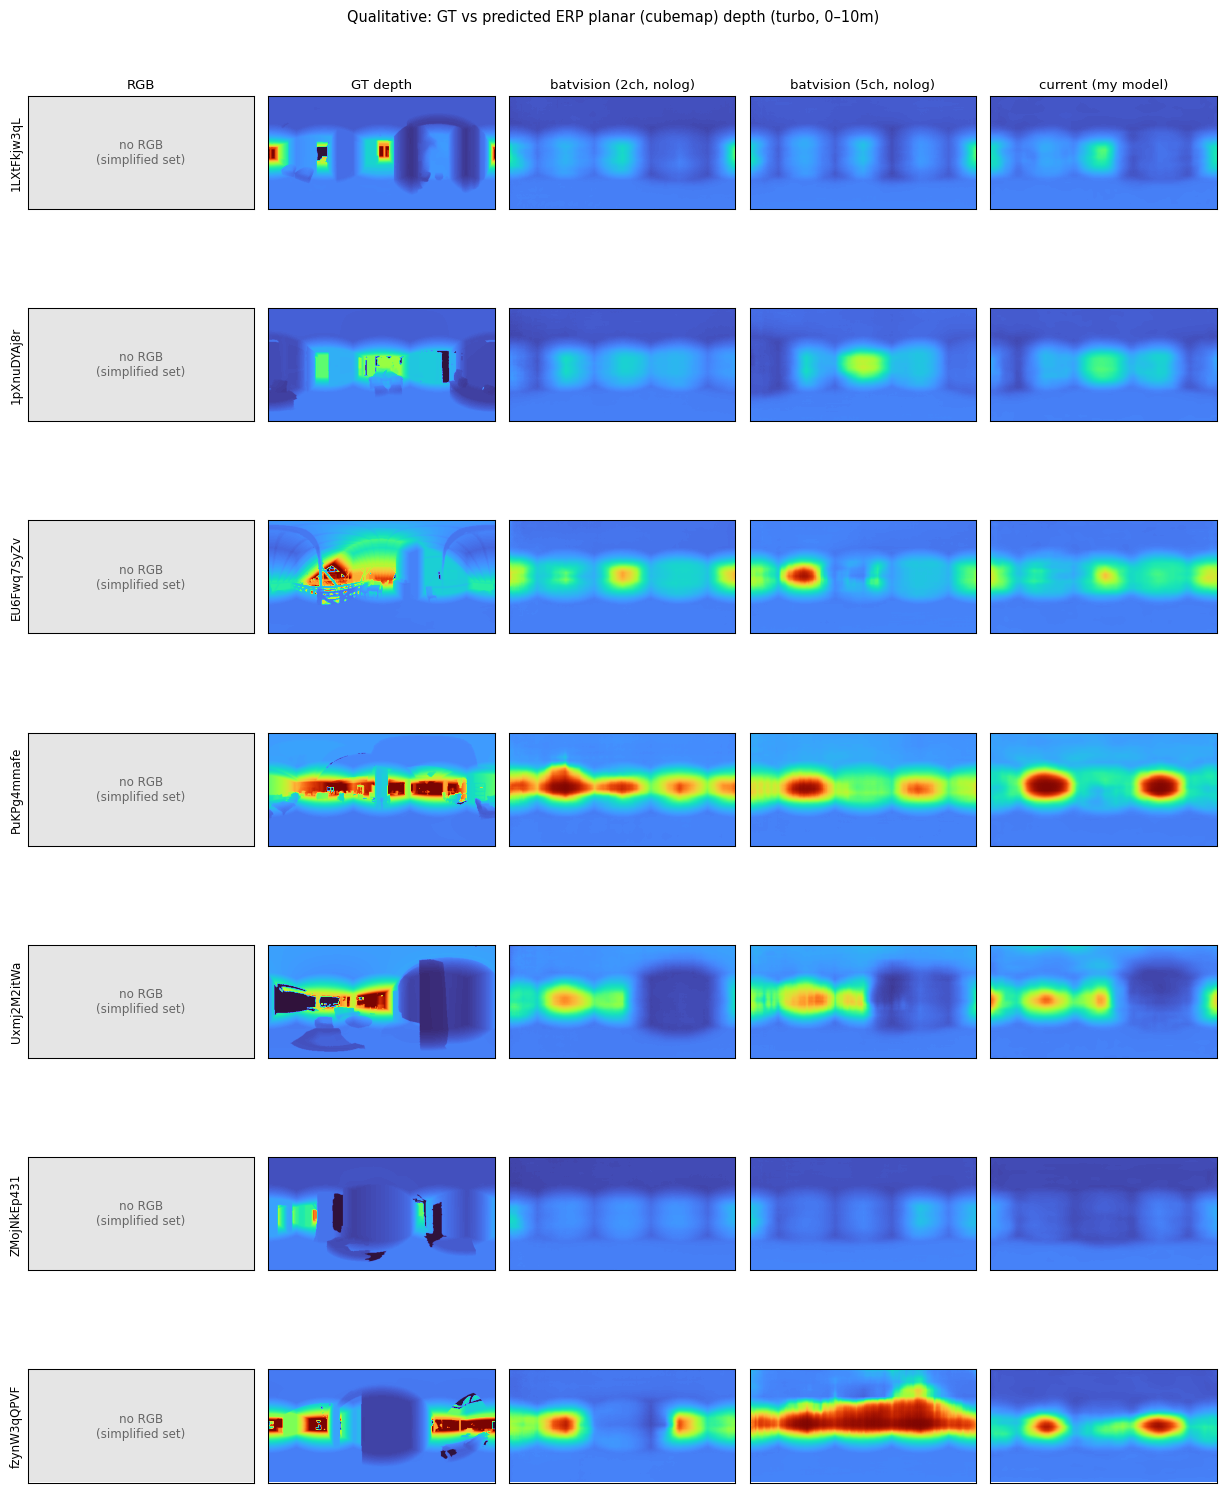
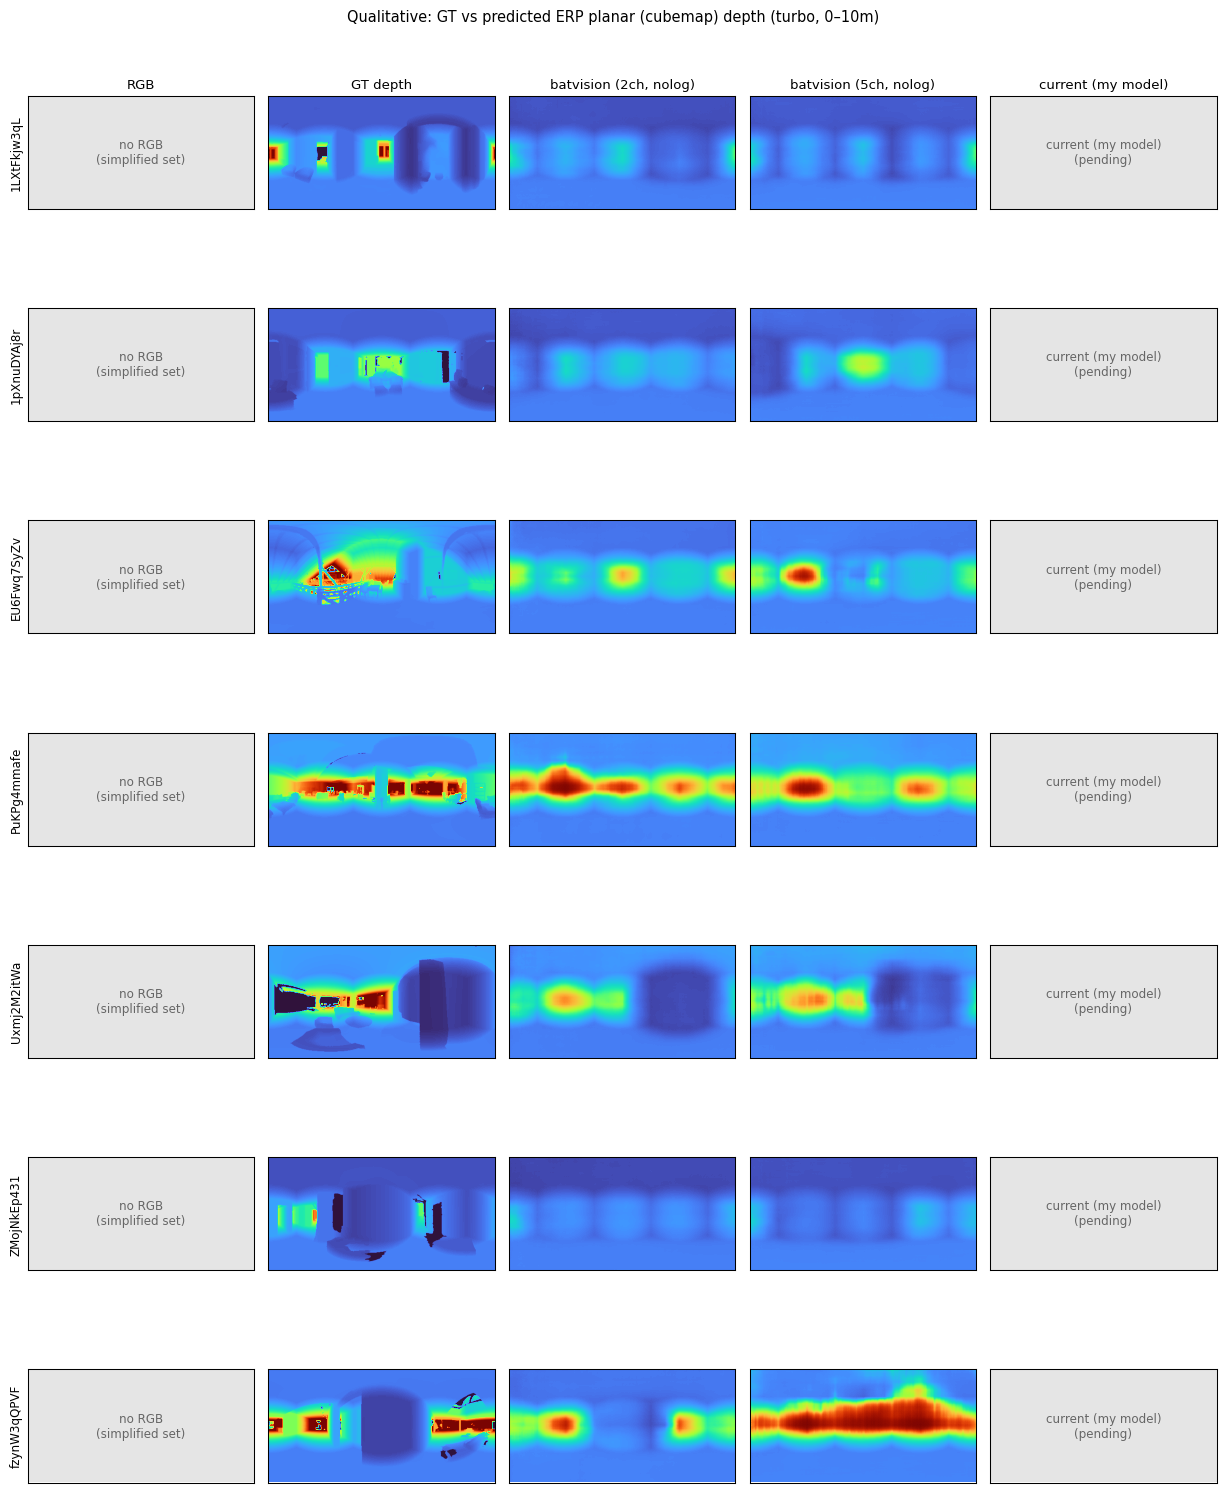
E32 log-out: composite worse, near-field verdict pending; note a loss-space subtlety
E32 raydpt_e32_logout: composite 1.9102 vs E23's 1.8962 (+0.0140), overall d1 -0.0044, converged
(best 15/22). Neither is the test -- the pre-registered locus is 1-2m interior d1, and that
diagnostic correctly blocked on the eval_lock behind E33 rather than steal the GPU.

Subtlety worth stating before the verdict: the model regresses log-depth (D = exp-map of the head),
but masked-MAE is still applied to the LINEAR out['D']. So the free variable is log d while the loss
is |D_lin - gt_lin|. Whether that moves the optimum from the arithmetic to the geometric median is
NOT guaranteed by construction -- it depends on how the exp curvature interacts with the linear MAE.
The near-field ratio histogram is the real test. If E32 fails it, the unambiguous form is masked-MAE
computed ON log-depth (|log D - log gt|), which IS the geometric-median objective by definition, and
that is the next thing to try rather than abandoning I25.

E33 (log-out + EchoDelayVolume) is training; the near-field + far-decile diagnostics run on both
the moment it finishes.

diff --git a/README.md b/README.md
@@ -51,6 +51,7 @@ Autonomous research — binaural echoes → ERP planar (cubemap) depth (SoundSpa
 
 | When | Mode | Event | Note |
 |---|---|---|---|
+| 2026-07-12T02:53 | `exploit` | experiment_completed | log-depth output: composite 1.9102 vs E23 1.8962 (+0.0140 worse), overall d1 -0.0044, converged. NOT the test -- the pre-registere |
 | 2026-07-12T01:42 | `exploit` | idea_added | log-depth output cures near-field median-pull. d1 is a +-25% ratio threshold; masked-MAE on linear depth converges to the arithmet |
 | 2026-07-12T01:31 | `synthesize` | discrepancy_recorded | Near-field diagnosis (1-2m, 52.5% of pixels): the gap is INTERIOR (flat walls), not boundary -- ties batvision on edges (0.4447 vs |
 | 2026-07-12T01:27 | `synthesize` | direction_changed | Representation lever OPENED per request and REFUTED at zero GPU: coherence correlates +0.17 (wrong sign) and late-tail waveform en |
@@ -58,7 +59,6 @@ Autonomous research — binaural echoes → ERP planar (cubemap) depth (SoundSpa
 | 2026-07-11T20:31 | `exploit` | experiment_completed | First attempt OOMed (raw logits 9GB at batch64; CPU smoke at batch2 hid it -- lesson: smoke at the real batch). Fixed with freq_st |
 | 2026-07-11T20:29 | `exploit` | idea_added | D13's decider. EchoDelayVolume reading the STFT spec DIRECTLY (512 time columns, 2cm spacing, encoder pooling bypassed). If the fa |
 | 2026-07-11T05:36 | `synthesize` | experiment_completed | EchoDelayVolume + kv=e3 FAILED the pre-registered far-decile test (all three regressed vs E24) and was budget-starved (16 vs 24 ep |
-| 2026-07-11T04:41 | `exploit` | experiment_completed | EchoDelayVolume on e2 (time 128, 2x delay resolution): composite 1.9006 vs E24's 1.8987, delta +0.0019 below sigma, converged. The |
 
 *Updated by `python utils/report.py research`. Champion: none yet.*
 <!-- RESEARCH:END -->
@@ -119,6 +119,7 @@ running best highlighted):
 | 25 | `00bdb13` | 0.4128 | 1.3228 | 0.5725 | 1.9006 | keep | E29 EchoDelayVolume on e2 (time 128, 2x delay resolution) fast parent (G1/I20) |
 | 26 | `00bdb13` | 0.4528 | 1.3372 | 0.5600 | 1.9508 | keep | E30 EchoDelayVolume + cross_kv32=e3 (combine, fast parent) (G1/I21) |
 | 27 | `b066475` | 0.4350 | 1.3108 | 0.5725 | 1.9008 | keep | E31 EchoDelayVolume reads raw STFT (time 512, encoder time-pooling bypassed) (G2/I22) |
+| 28 | `54678e3` | 0.4166 | 1.3346 | 0.5721 | 1.9102 | keep | E32 log-depth output (I25: cure near-field median-pull) |
 <!-- RESULTS:END -->
 
 ## Progression (composite, lower = better)